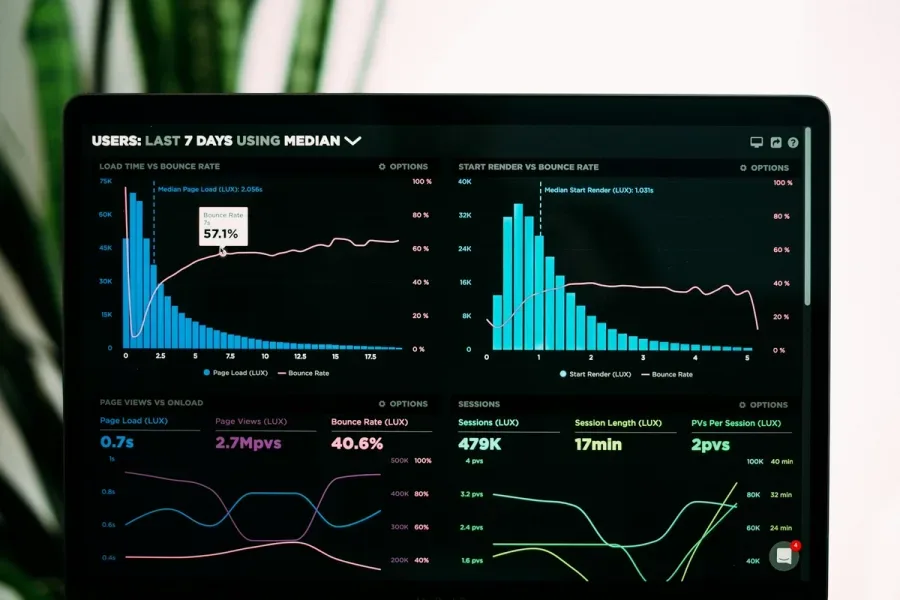
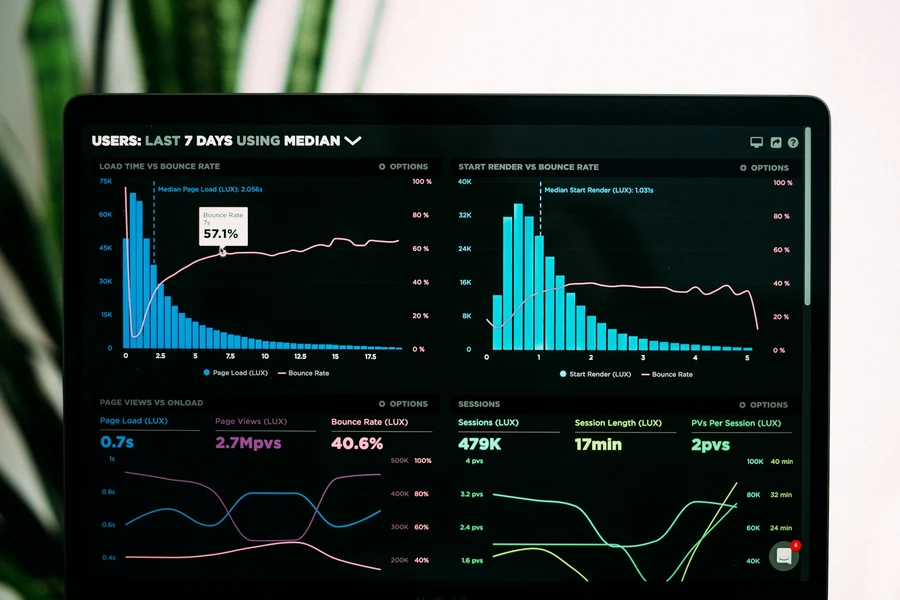
refactor:  optimize images

Changed region(s): [[0.56, 0.36, 0.6533, 0.57], [0.4044, 0.57, 0.4356, 0.6]]

diff --git a/assets/source-images/README.md b/assets/source-images/README.md
@@ -1,0 +1,18 @@
+# Source images
+
+Keep original, high-quality images in this directory.
+
+These files are the source assets used to regenerate optimized images served by
+the site:
+
+- `home/` -> `static/img/home/*.webp`
+- `blog/` -> `blog/img/*.webp`
+
+Use JPG or PNG originals when possible. Avoid using already optimized WebP files
+as source images because repeated lossy compression can make images look blurry.
+
+After updating source images, regenerate the site images with:
+
+```bash
+npm run optimize-images -- --overwrite
+```
